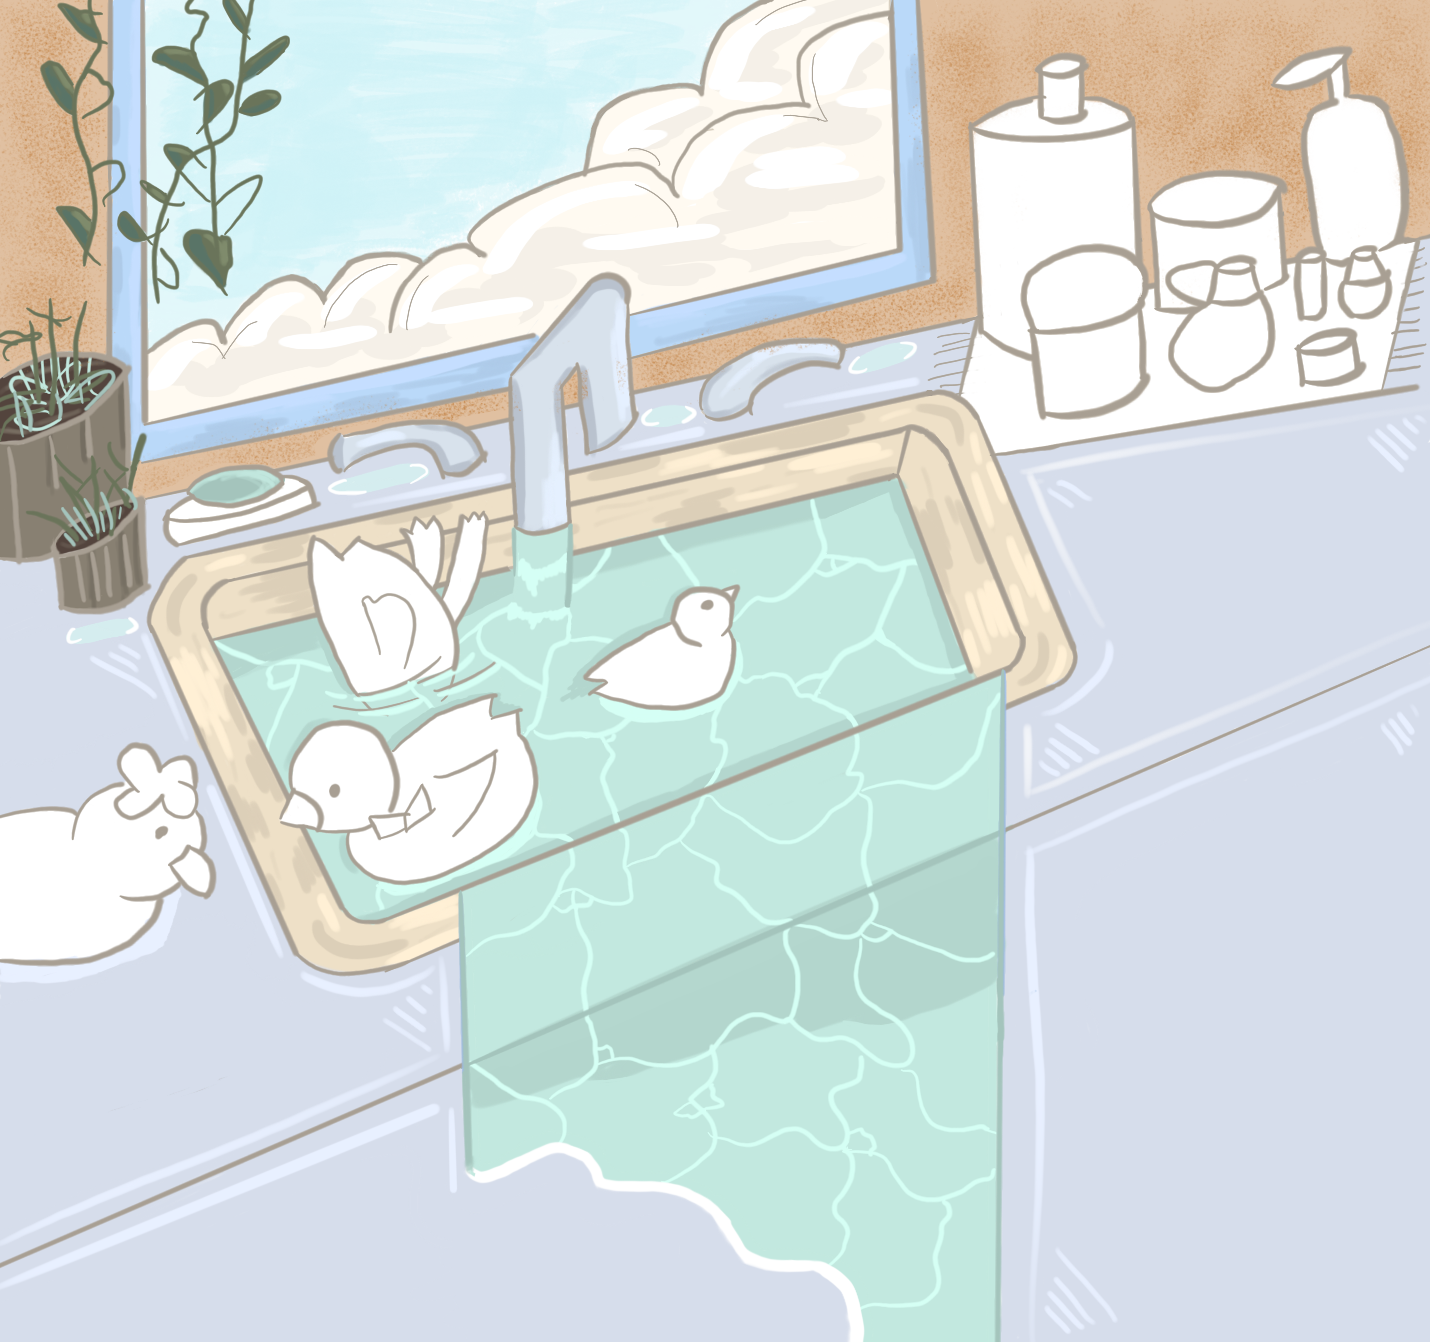
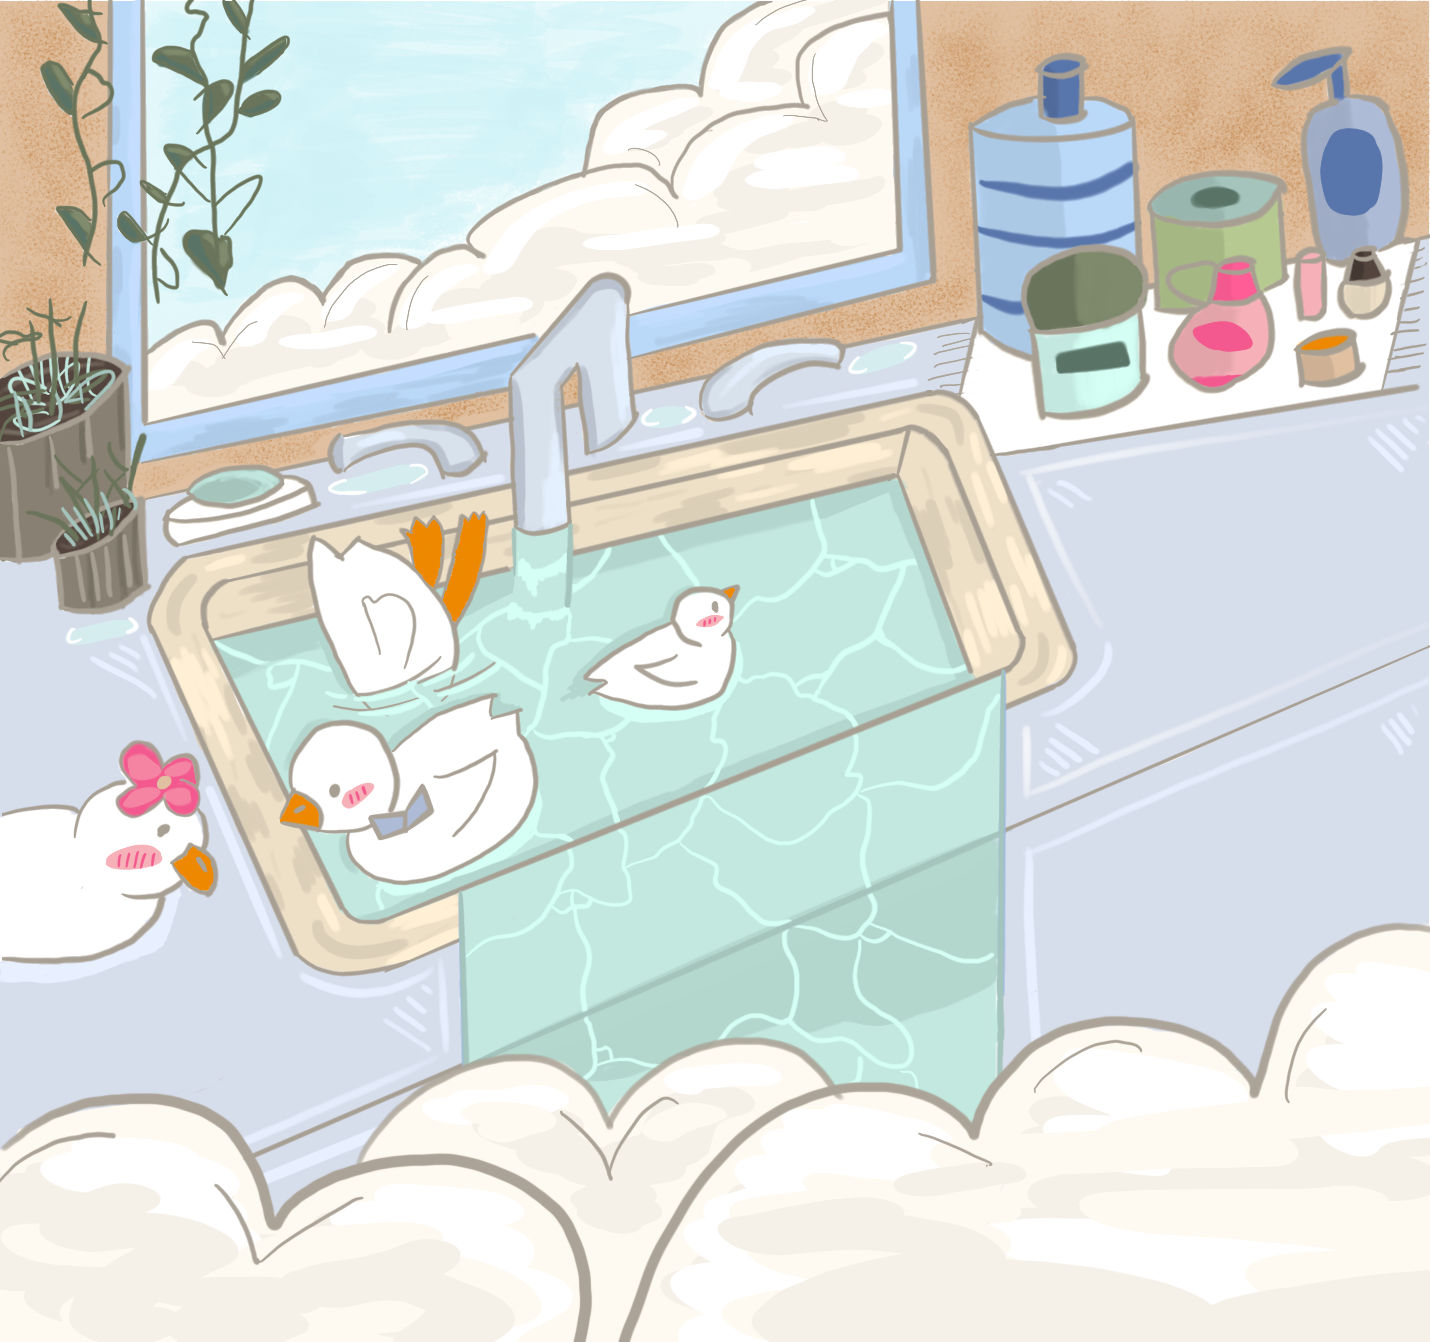
pretty homepage

diff --git a/client/src/utilities.css b/client/src/utilities.css
@@ -12,9 +12,9 @@
   --medgrey: #e0e0e0;
   --grey: #f7f7f7; */
   --white: #fff;
-  --primary: teal;
+  --primary: #c2e8df;
   --darkgrey: #d4d4d4;
-  --aqua: #c2e8df;
+  --aqua: #a4c4bc;
 
   --xs: 4px;
   --s: 8px;
@@ -27,6 +27,7 @@ body {
   padding: 0;
   font-family: "Open Sans", sans-serif;
   font-weight: 300;
+  background-color: var(--primary);
 }
 
 .u-bold {
@@ -38,43 +39,6 @@ body {
 }
 
 /**
-form {
-  flex-grow: 1;
-}
-
-.u-flex {
-  display: flex;
-}
-
-.u-flexColumn {
-  display: flex;
-  flex-direction: column;
-}
-
-.u-flex-justifyCenter {
-  justify-content: center;
-}
-
-.u-flex-alignCenter {
-  align-items: center;
-}
-
-.u-inlineBlock {
-  display: inline-block;
-}
-
-.u-bold {
-  font-weight: 600;
-}
-
-.u-textCenter {
-  text-align: center;
-}
-
-.u-relative {
-  position: relative;
-}
-
 .u-pointer {
   cursor: pointer;
 }

diff --git a/client/src/components/modules/Ratings.css b/client/src/components/modules/Ratings.css
@@ -3,6 +3,8 @@
   background-color: var(--white);
   border-radius: var(--xs);
   margin-top: var(--m);
+  margin-left: 10%;
+  margin-right: 10%;
 }
 
 .Review-body,
@@ -16,7 +18,7 @@
 }
 
 .Review-content {
-  font-size: 40px;
+  font-size: 18px;
   margin: var(--s) 0 0;
 }
 
@@ -27,4 +29,9 @@
 
 .Review-commentBody {
   margin: 0 0 var(--s);
+}
+
+.Review-image {
+  max-width: 150px;
+  height: auto;
 }

diff --git a/client/src/components/pages/Feed.jsx b/client/src/components/pages/Feed.jsx
@@ -2,6 +2,8 @@ import React, { useState, useEffect } from "react";
 import Ratings from "../modules/Ratings";
 import { get } from "../../utilities.js";
 
+import "./Feed.css";
+
 const Feed = () => {
   const [ratings, setRatings] = useState([]);
 

diff --git a/client/src/components/pages/Feed.css b/client/src/components/pages/Feed.css
@@ -1,0 +1,5 @@
+.Feed-container {
+    background-image: url("../../assets/water.png");
+    background-size: cover;
+    background-position:center;
+}

diff --git a/client/src/components/App.css b/client/src/components/App.css
@@ -1,6 +1,6 @@
 .App-container {
   width: 100%;
-  height: 150vh;
+  height: 140vh;
   padding: var(--s) var(--m);
   margin: auto;
 
